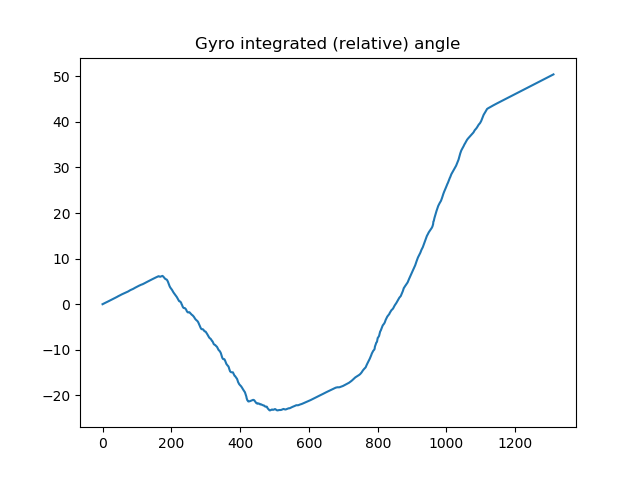
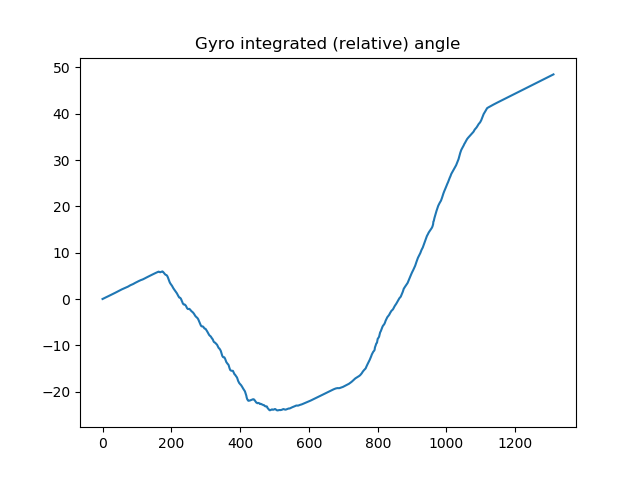
added kalman stuff

diff --git a/Lab_5_Week_10/exercise_imu_kalman/imu_exercise_kalman.py b/Lab_5_Week_10/exercise_imu_kalman/imu_exercise_kalman.py
@@ -25,20 +25,20 @@ show3DLiveViewInterval = 3
 ##### Insert initialize code below ###################
 
 # approx. bias values determined by averaging over static measurements
-bias_gyro_x = 4.3939754587634265 / 6000  # [rad/measurement]
-bias_gyro_y = 2.4344349177255036 / 6000  # [rad/measurement]
-bias_gyro_z = 0.0466003331756676 / 6000  # [rad/measurement]
+bias_gyro_x = 4  # [rad/measurement]
+bias_gyro_y = 2  # [rad/measurement]
+bias_gyro_z = 0  # [rad/measurement]
 
 # variances
-gyroVar = 5
-pitchVar = 5
+gyroVar = 0.05
+pitchVar = 0.01
 
 # Kalman filter start guess
 estAngle = -pi / 4.0
-estVar = 5
+estVar = 0
 
 # Kalman filter housekeeping variables
-gyroVarAcc = 5
+gyroVarAcc = 0
 
 ######################################################
 
@@ -130,11 +130,22 @@ for line in f:
     gyro_z_rel += gyro_z * (ts_now - ts_prev)
 
     # Kalman prediction step (we have new data in each iteration)
+    predAngle = estAngle + gyro_x * (ts_now - ts_prev)
+    gyroVarAcc += gyroVar
+    predVar = estVar + gyroVarAcc * (ts_now - ts_prev)
+    estAngle = predAngle
+    estVar = predVar
 
     # Kalman correction step (we have new data in each iteration)
+    k = predVar / (predVar + pitchVar)
+    corrAngle = predAngle + k * (pitch - predAngle)
+    corrVar = predVar * (1 - k)
+    estAngle = corrAngle
+    estVar = corrVar
+    gyroVarAcc = 0
 
     # define which value to plot as the Kalman filter estimate
-    kalman_estimate = pitch
+    kalman_estimate = predAngle
 
     # define which value to plot as the absolute value (pitch/roll)
     pitch_roll_plot = pitch
@@ -163,6 +174,11 @@ for line in f:
 # closing the file	
 f.close()
 
+
+def raw_input():
+    return
+
+
 # show the plot
 if showPlot is True:
     ion()
@@ -178,4 +194,4 @@ if showPlot is True:
     plt.savefig('imu_exercise_acc_kalman.png')
     plt.draw()
     print('Press enter to quit')
-    #raw_input()
+    raw_input()
